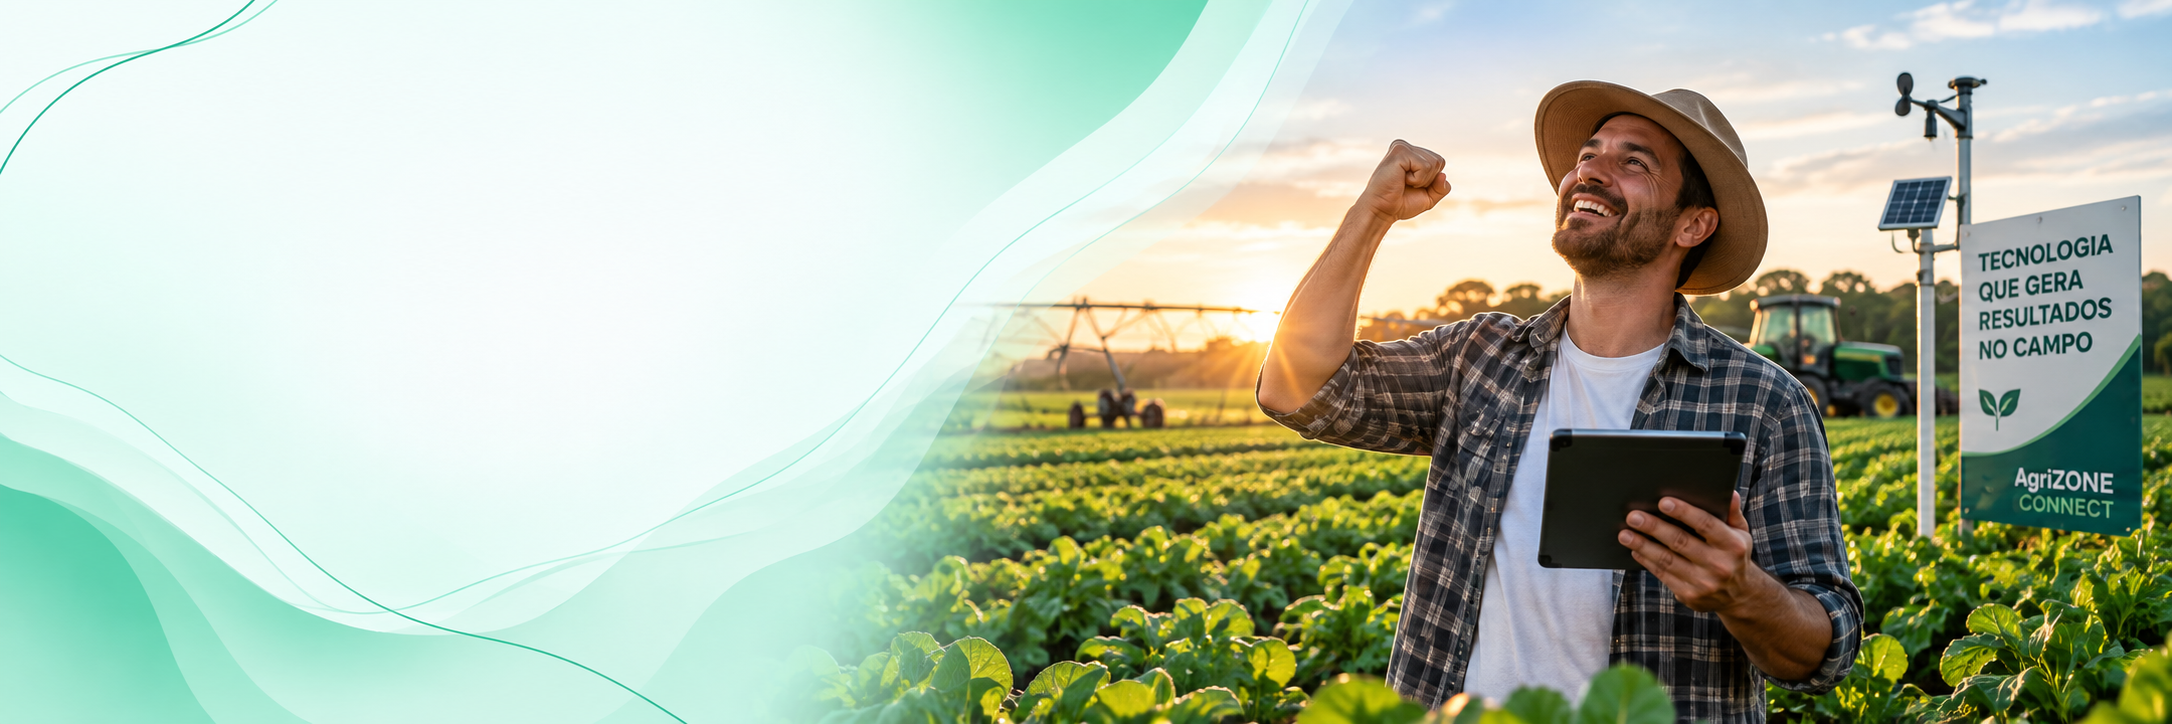
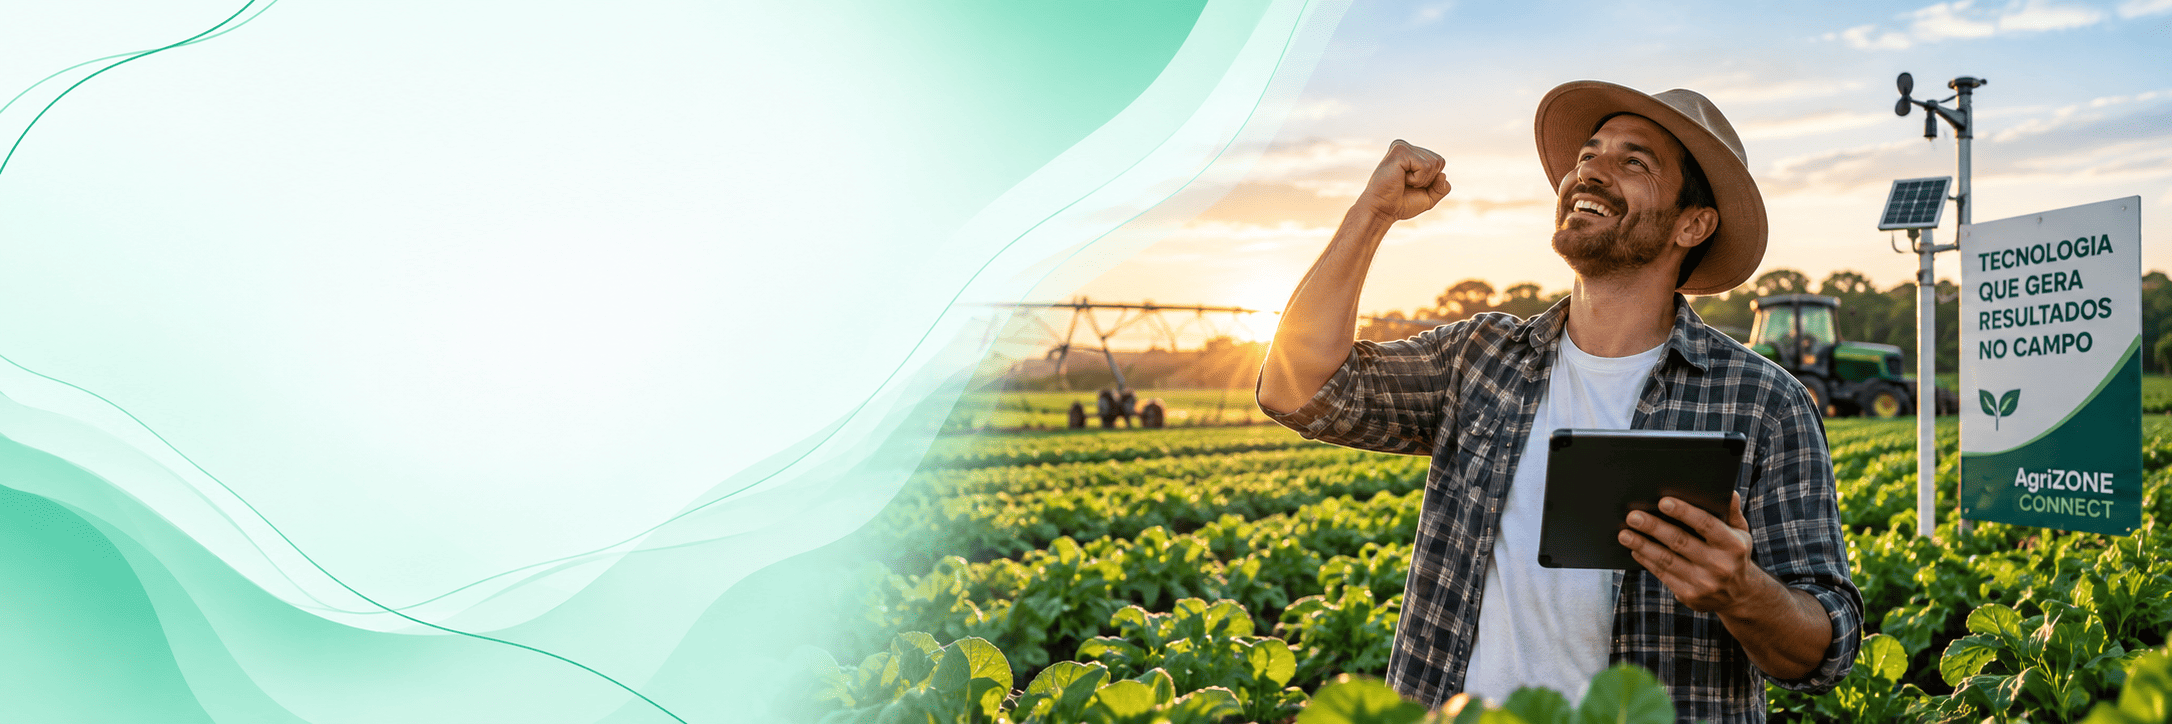
Ajustes Diversos

diff --git a/scripts/compress_hero_fundos.py b/scripts/compress_hero_fundos.py
@@ -1,0 +1,93 @@
+#!/usr/bin/env python3
+"""Recompress fundo_*.png in place to ≤500KB, keeping .png filenames."""
+from __future__ import annotations
+
+import io
+import sys
+from pathlib import Path
+
+TARGET = 512_000
+MAX_W = 1920
+
+try:
+    from PIL import Image
+except ImportError:
+    print("ERROR: Pillow missing", file=sys.stderr)
+    sys.exit(1)
+
+IMG_DIR = Path("/app/netsys-apps/cac/apps/www/public/images")
+files = sorted(IMG_DIR.glob("fundo_*.png"))
+if not files:
+    print(f"No files in {IMG_DIR}", file=sys.stderr)
+    sys.exit(1)
+
+print("BEFORE:")
+for p in files:
+    print(f"  {p.name}: {p.stat().st_size} bytes")
+
+
+def encode_png(img: Image.Image, colors: int | None) -> bytes:
+    buf = io.BytesIO()
+    if colors is not None:
+        # Adaptive palette PNG for size; photos still OK as hero backgrounds
+        q = img.quantize(colors=colors, method=Image.Quantize.MEDIANCUT, dither=Image.Dither.FLOYDSTEINBERG)
+        q.save(buf, format="PNG", optimize=True)
+    else:
+        img.save(buf, format="PNG", optimize=True)
+    return buf.getvalue()
+
+
+results = []
+for src in files:
+    before = src.stat().st_size
+    img = Image.open(src).convert("RGB")
+    w, h = img.size
+    if w > MAX_W:
+        nh = int(h * MAX_W / w)
+        img = img.resize((MAX_W, nh), Image.Resampling.LANCZOS)
+        print(f"  resized {src.name}: {w}x{h} -> {MAX_W}x{nh}")
+
+    # Try full RGB PNG first after resize, then palette depths, then further downscale
+    data = None
+    label = None
+    for colors in (None, 256, 192, 128, 96, 64):
+        candidate = encode_png(img, colors)
+        print(f"  try {src.name} colors={colors}: {len(candidate)} bytes")
+        if len(candidate) <= TARGET:
+            data = candidate
+            label = f"colors={colors}"
+            break
+
+    if data is None:
+        scale = 0.9
+        cur = img
+        while scale >= 0.45:
+            nw = max(1, int(img.size[0] * scale))
+            nh = max(1, int(img.size[1] * scale))
+            cur = img.resize((nw, nh), Image.Resampling.LANCZOS)
+            for colors in (256, 128, 64):
+                candidate = encode_png(cur, colors)
+                print(f"  try {src.name} {nw}x{nh} colors={colors}: {len(candidate)} bytes")
+                if len(candidate) <= TARGET:
+                    data = candidate
+                    label = f"{nw}x{nh} colors={colors}"
+                    break
+            if data is not None:
+                break
+            scale -= 0.1
+
+    if data is None:
+        print(f"ERROR: could not compress {src.name} under {TARGET}", file=sys.stderr)
+        sys.exit(2)
+
+    tmp = src.with_suffix(".png.tmp")
+    tmp.write_bytes(data)
+    tmp.replace(src)
+    after = src.stat().st_size
+    results.append((src.name, before, after, label))
+    print(f"  wrote {src.name}: {before} -> {after} ({label})")
+
+print("\nAFTER:")
+for name, before, after, label in results:
+    print(f"  {name}: {before} -> {after} ({label})")
+print("DONE")
